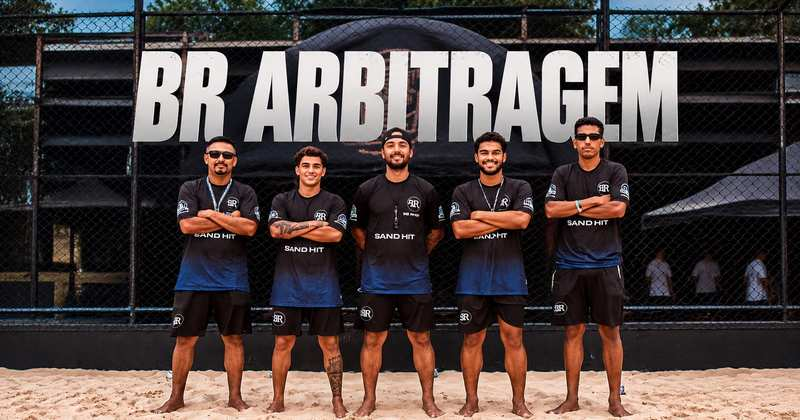
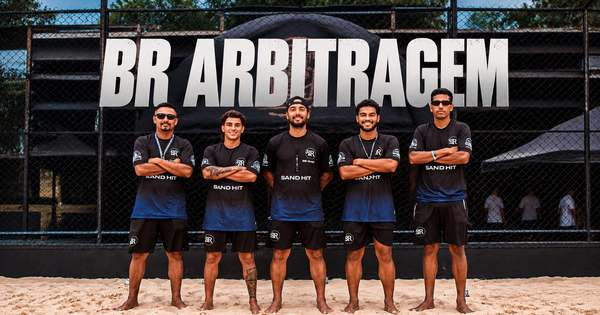
Ajusta imagem de compartilhamento (600x315)
Claude-Session: https://claude.ai/code/session_01Ax8WZRsuaxFcJMLcY5fY9S

diff --git a/index.html b/index.html
@@ -21,8 +21,8 @@
       content="Arbitragem de futevôlei para o seu próximo evento. Consulte a disponibilidade da equipe."
     />
     <meta property="og:image" content="/images/og-br-arbitragem.jpg" />
-    <meta property="og:image:width" content="800" />
-    <meta property="og:image:height" content="420" />
+    <meta property="og:image:width" content="600" />
+    <meta property="og:image:height" content="315" />
     <meta name="twitter:card" content="summary_large_image" />
 
     <link rel="preconnect" href="https://fonts.googleapis.com" />
